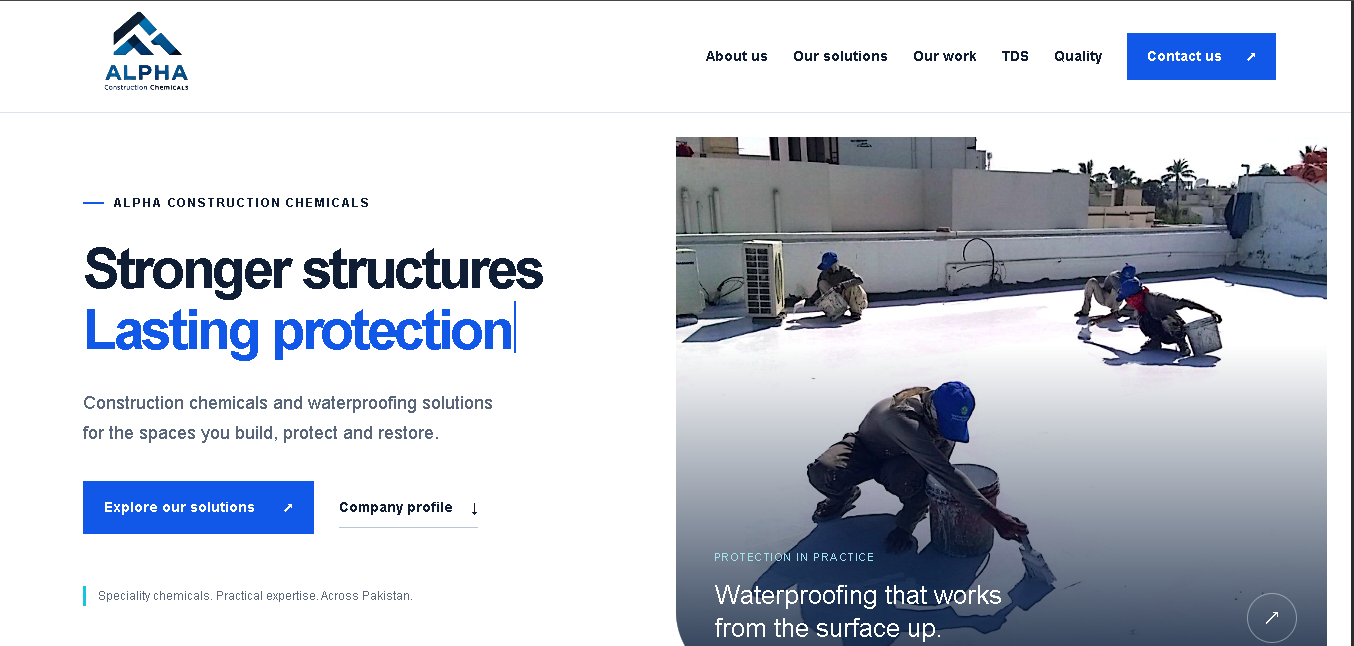
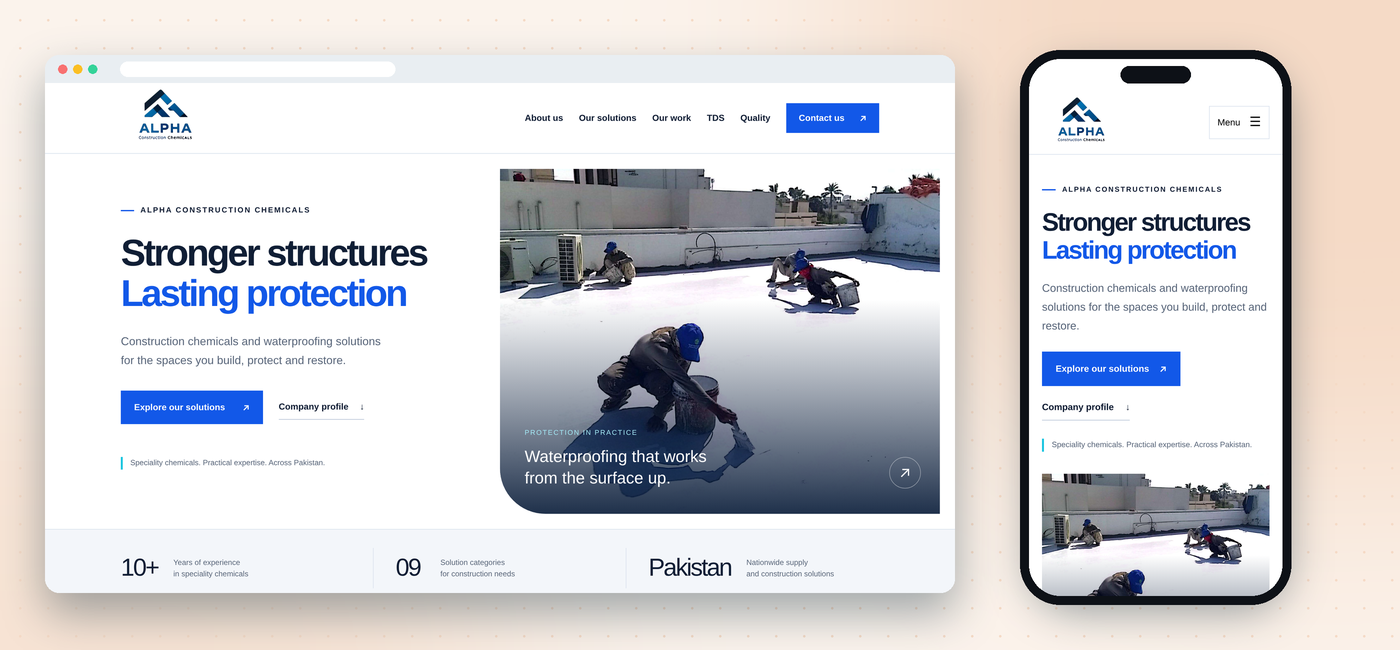
Redesign project mockups and polish the mobile layout
- New mockups for every project: the desktop screen in a browser frame
  and the real mobile screen in a phone, captured from the live sites
  and the project repositories (QuickServe keeps its desktop screen)
- Project cards show the mockups without the extra toolbar frame
- Mobile: larger mockups in project cards, bigger tap targets in the
  menu, smaller WhatsApp button, tighter header on very small phones

Claude-Session: https://claude.ai/code/session_01KNoVZnXQ9DLGw1yrrvs9qs

diff --git a/app/globals.css b/app/globals.css
@@ -38,3 +38,20 @@ footer .footer-brand img{width:240px;max-width:100%;height:auto;margin:-12px 0 0
 .reference strong{overflow-wrap:anywhere}
 @media(max-width:760px){.brand{width:170px;height:58px}.brand img{width:185px}.mini-nav{font-size:14px;gap:8px}}
 @media(max-width:380px){.brand{width:140px}.brand img{width:153px}}
+/* Project mockups carry their own device frames */
+.screen-frame{background:transparent;border:0;box-shadow:0 18px 40px #18372b2e;border-radius:12px}
+.screen-toolbar{display:none}
+.screen-frame img{height:auto!important;aspect-ratio:1400/650;object-fit:cover;border-radius:12px}
+/* Mobile polish */
+@media(max-width:760px){
+  .project-art{min-height:auto;padding:38px 12px 44px}
+  .project-art-bottom{left:16px;right:16px}
+  nav.open{gap:4px;padding:14px 6% 20px}
+  nav.open a{display:block;padding:12px 4px;font-size:17px;border-bottom:1px solid #edf2ef}
+  nav.open a:last-child{border-bottom:0}
+  .whatsapp{right:14px;bottom:14px;padding:12px;box-shadow:0 4px 16px #154f4240}
+  .whatsapp svg{width:22px;height:22px}
+}
+@media(max-width:380px){
+  .nav-cta{padding-left:12px;padding-right:12px;font-size:12px}
+}
